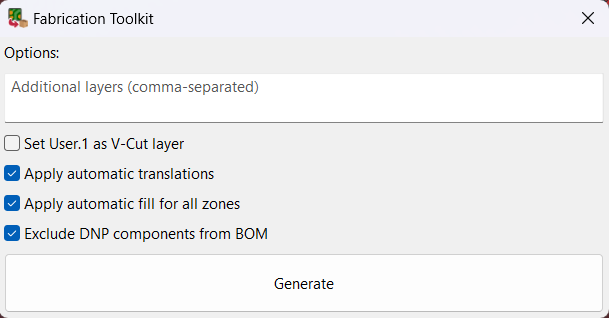
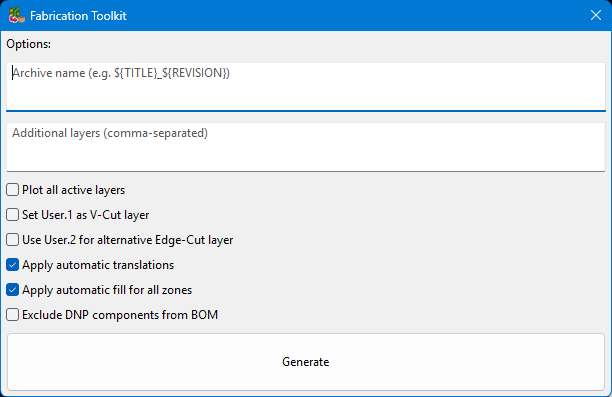
feat: add ability to customize archive name (#202)
* Add ability to customize archive name

* Remove incorrect autocomplete for ARCHIVE_NAME text box

---------

Changed region(s): [[0.0, 0.0, 1.0, 1.0], [0.4368, 0.8774, 0.5616, 0.934]]

diff --git a/plugins/plugin.py b/plugins/plugin.py
@@ -4,7 +4,7 @@ import pcbnew # type: ignore
 
 from .thread import ProcessThread
 from .events import StatusEvent
-from .options import AUTO_FILL_OPT, AUTO_TRANSLATE_OPT, EXCLUDE_DNP_OPT, EXTEND_EDGE_CUT_OPT, ALTERNATIVE_EDGE_CUT_OPT, EXTRA_LAYERS, ALL_ACTIVE_LAYERS_OPT
+from .options import AUTO_FILL_OPT, AUTO_TRANSLATE_OPT, EXCLUDE_DNP_OPT, EXTEND_EDGE_CUT_OPT, ALTERNATIVE_EDGE_CUT_OPT, EXTRA_LAYERS, ALL_ACTIVE_LAYERS_OPT, ARCHIVE_NAME
 from .utils import load_user_options, save_user_options, get_layer_names
 
 
@@ -30,6 +30,7 @@ class KiCadToJLCForm(wx.Frame):
         userOptions = load_user_options({
             EXTRA_LAYERS: "",
             ALL_ACTIVE_LAYERS_OPT: False,
+            ARCHIVE_NAME: "",
             EXTEND_EDGE_CUT_OPT: False,
             ALTERNATIVE_EDGE_CUT_OPT: False,
             AUTO_TRANSLATE_OPT: True,
@@ -46,6 +47,10 @@ class KiCadToJLCForm(wx.Frame):
         self.mAdditionalLayersControl.AutoComplete(layers)
         self.mAdditionalLayersControl.Enable()
         self.mAdditionalLayersControl.SetValue(userOptions[EXTRA_LAYERS])
+        self.mArchiveNameControl = wx.TextCtrl(self, size=wx.Size(600, 50))
+        self.mArchiveNameControl.Hint = "Archive name (e.g. ${TITLE}_${REVISION})"
+        self.mArchiveNameControl.Enable()
+        self.mArchiveNameControl.SetValue(userOptions[ARCHIVE_NAME])
         self.mAllActiveLayersCheckbox = wx.CheckBox(self, label='Plot all active layers')
         self.mAllActiveLayersCheckbox.SetValue(userOptions[ALL_ACTIVE_LAYERS_OPT])
         self.mExtendEdgeCutsCheckbox = wx.CheckBox(self, label='Set User.1 as V-Cut layer')
@@ -71,6 +76,7 @@ class KiCadToJLCForm(wx.Frame):
 
         boxSizer.Add(self.mOptionsLabel, 0, wx.ALL, 5)
         # boxSizer.Add(self.mOptionsSeparator, 0, wx.ALL, 5)
+        boxSizer.Add(self.mArchiveNameControl, 0, wx.ALL, 5)
         boxSizer.Add(self.mAdditionalLayersControl, 0, wx.ALL, 5)
         boxSizer.Add(self.mAllActiveLayersCheckbox, 0, wx.ALL, 5)
         boxSizer.Add(self.mExtendEdgeCutsCheckbox, 0, wx.ALL, 5)
@@ -100,6 +106,7 @@ class KiCadToJLCForm(wx.Frame):
 
     def onGenerateButtonClick(self, event):
         options = dict()
+        options[ARCHIVE_NAME] = self.mArchiveNameControl.GetValue()
         options[EXTRA_LAYERS] = self.mAdditionalLayersControl.GetValue()
         options[ALL_ACTIVE_LAYERS_OPT] = self.mAllActiveLayersCheckbox.GetValue()
         options[EXTEND_EDGE_CUT_OPT] = self.mExtendEdgeCutsCheckbox.GetValue()
@@ -111,6 +118,7 @@ class KiCadToJLCForm(wx.Frame):
         save_user_options(options)
 
         self.mOptionsLabel.Hide()
+        self.mArchiveNameControl.Hide()
         self.mAdditionalLayersControl.Hide()
         self.mAllActiveLayersCheckbox.Hide()
         self.mExtendEdgeCutsCheckbox.Hide()

diff --git a/plugins/thread.py b/plugins/thread.py
@@ -39,6 +39,36 @@ class ProcessThread(Thread):
         self.openBrowser = openBrowser
         self.start()
 
+    def expandTextVariables(self, string):
+        titleBlock = pcbnew.GetBoard().GetTitleBlock()
+        
+        titleBlockVars =        {
+            "ISSUE_DATE": titleBlock.GetDate(),
+            "CURRENT_DATE": datetime.datetime.now().strftime('%Y-%m-%d'),
+            "REVISION": titleBlock.GetRevision(),
+            "TITLE": titleBlock.GetTitle(),
+            "COMPANY": titleBlock.GetCompany(),
+            "COMMENT1": titleBlock.GetComment(0),
+            "COMMENT2": titleBlock.GetComment(1),
+            "COMMENT3": titleBlock.GetComment(2),
+            "COMMENT4": titleBlock.GetComment(3),
+            "COMMENT5": titleBlock.GetComment(4),
+            "COMMENT6": titleBlock.GetComment(5),
+            "COMMENT7": titleBlock.GetComment(6),
+            "COMMENT8": titleBlock.GetComment(7),
+            "COMMENT9": titleBlock.GetComment(8),
+        }
+
+        for var, val in titleBlockVars.items():
+            string = string.replace(f"${{{var}}}", val)
+
+        if (hasattr(self.process_manager.board, "GetProject") and hasattr(pcbnew, "ExpandTextVars")):
+            project = self.process_manager.board.GetProject()
+            string = pcbnew.ExpandTextVars(string, project)
+
+        return string
+
+
     def run(self):
         # initializing
         self.progress(0)
@@ -128,11 +158,16 @@ class ProcessThread(Thread):
             os.makedirs(output_path)
         
         # rename gerber archive
-        gerberArchiveName = ProcessManager.normalize_filename("_".join(("{} {}".format(title or filename, revision or '').strip() + '.zip').split()))
+        if self.options[ARCHIVE_NAME]:
+            baseName = self.expandTextVariables(self.options[ARCHIVE_NAME])
+        else:
+            baseName = "{} {}".format(title or filename, revision or '')
+
+        gerberArchiveName = ProcessManager.normalize_filename("_".join((baseName.strip() + '.zip').split()))
         os.rename(temp_file, os.path.join(temp_dir, gerberArchiveName))
 
         timestamp = datetime.datetime.now().strftime('%Y-%m-%d %H-%M-%S')
-        backup_name = ProcessManager.normalize_filename("_".join(("{} {} {}".format(title or filename, revision or '', timestamp).strip()).split()))
+        backup_name = ProcessManager.normalize_filename("_".join(("{} {}".format(baseName, timestamp).strip()).split()))
         shutil.make_archive(os.path.join(output_path, 'backups', backup_name), 'zip', temp_dir)
 
 

diff --git a/plugins/cli.py b/plugins/cli.py
@@ -9,13 +9,14 @@ if __name__ == '__main__':
                             description="Generates JLCPCB production files from a KiCAD board file")
 
     parser.add_argument("--path",               "-p",  type=str, help="Path to KiCAD board file", required=True)
-    parser.add_argument("--additionalLayers",   "-aL", type=str, help="Additional layers(comma-separated)")
+    parser.add_argument("--additionalLayers",   "-aL", type=str, help="Additional layers(comma-separated)", metavar="LAYERS")
     parser.add_argument("--user1VCut",          "-u1", action="store_true", help="Set User.1 as V-Cut layer")
     parser.add_argument("--user2AltVCut",       "-u2", action="store_true", help="Use User.2 for alternative Edge-Cut layer")
     parser.add_argument("--autoTranslate",      "-t",  action="store_true", help="Apply automatic position/rotation translations")
     parser.add_argument("--autoFill",           "-f",  action="store_true", help="Apply automatic fill for all zones")
     parser.add_argument("--excludeDNP",         "-e",  action="store_true", help="Exclude DNP components from BOM")
     parser.add_argument("--allActiveLayers",    "-aaL",action="store_true", help="Export all active layers instead of only commonly used ones")
+    parser.add_argument("--archiveName",           "-aN", type=str, help="Name of the generated archives", metavar="NAME")
     parser.add_argument("--openBrowser",        "-b",  action="store_true", help="Open webbrowser with directory file overview after generation")
     args = parser.parse_args()
 
@@ -26,6 +27,7 @@ if __name__ == '__main__':
     options[EXTEND_EDGE_CUT_OPT] = args.user1VCut
     options[ALTERNATIVE_EDGE_CUT_OPT] = args.user2AltVCut
     options[ALL_ACTIVE_LAYERS_OPT] = args.allActiveLayers
+    options[ARCHIVE_NAME] = args.archiveName
     options[EXTRA_LAYERS] = args.additionalLayers
 
     openBrowser = args.openBrowser

diff --git a/plugins/options.py b/plugins/options.py
@@ -5,4 +5,5 @@ OUTPUT_NAME_OPT = "OUTPUT NAME"
 EXTEND_EDGE_CUT_OPT = "EXTEND_EDGE_CUT"
 ALTERNATIVE_EDGE_CUT_OPT = "ALTERNATIVE_EDGE_CUT"
 ALL_ACTIVE_LAYERS_OPT = "ALL_ACTIVE_LAYERS"
+ARCHIVE_NAME = "ARCHIVE_NAME"
 EXTRA_LAYERS = "EXTRA_LAYERS"

diff --git a/README.md b/README.md
@@ -39,7 +39,9 @@ Options can be set in the dialog that appears when the plugin is invoked. They a
 
 <img src="https://github.com/bennymeg/JLC-Plugin-for-KiCad/blob/master/assets/options.png?raw=true" height=275>
 
+☑ __Archive name__: Name of the archive file to be generated. Can include text variables, such as e.g. `${TITLE}_${REVISION}`</br>
 ☑ __Additional layers__: Comma-separated list of additional layers to include in the gerber archive.</br>
+☑ __Plot all active layers__: Whether to include all layers, instead of just the layers required by JLCPCB.</br>
 ☑ __Set User.1 as V-Cut layer__: Merge User.1 layer with the Edge-Cut layer in production.</br>
 ☑ __Use User.2 for an alternative Edge-Cut layer__: Use the User.2 instead of the Edge-Cut layer for the board outline in production. This is useful if you need process edges or panelization during production but still want to keep the individual outline for prototyping, 3D model exports, or similar purposes.</br>
 ☑ __Apply automatic translations__: Apply known translation fixes for common components.</br>
@@ -178,25 +180,31 @@ The plugin can be called with the command below:
 python3 -m plugins.cli -p /myProject/myBoard.kicad_pcb
 ```
 
-The all options from the GUI are also available via the cli interface:
+All the options from the GUI are also available via the cli interface:
 ```
 python3 -m plugins.cli -h
 
-usage: Fabrication Toolkit [-h] --path PATH [--additionalLayers LAYERS] [--user1VCut] [--user2AltVCut] [--autoTranslate] [--autoFill] [--excludeDNP] [--allActiveLayers] [--openBrowser]
+usage: Fabrication Toolkit [-h] --path PATH [--additionalLayers LAYERS] [--user1VCut] [--user2AltVCut]
+                           [--autoTranslate] [--autoFill] [--excludeDNP] [--allActiveLayers] [--archiveName NAME]
+                           [--openBrowser]
 
 Generates JLCPCB production files from a KiCAD board file
 
 options:
-  -h, --help                                show this help message and exit
-  --path PATH, -p PATH                      Path to KiCAD board file
-  --additionalLayers LAYERS, -aL LAYERS     Additional layers(comma-separated)
-  --user1VCut, -u1                          Set User.1 as V-Cut layer
-  --user2AltVCut, -u2                       Use User.2 for alternative Edge-Cut layer
-  --autoTranslate, -t                       Apply automatic position/rotation translations
-  --autoFill, -f                            Apply automatic fill for all zones
-  --excludeDNP, -e                          Exclude DNP components from BOM
-  --allActiveLayers, -aaL                   Export all active layers instead of only commonly used ones
-  --openBrowser, -b                         Open web browser with directory file overview after generation
+  -h, --help            show this help message and exit
+  --path PATH, -p PATH  Path to KiCAD board file
+  --additionalLayers LAYERS, -aL LAYERS
+                        Additional layers(comma-separated)
+  --user1VCut, -u1      Set User.1 as V-Cut layer
+  --user2AltVCut, -u2   Use User.2 for alternative Edge-Cut layer
+  --autoTranslate, -t   Apply automatic position/rotation translations
+  --autoFill, -f        Apply automatic fill for all zones
+  --excludeDNP, -e      Exclude DNP components from BOM
+  --allActiveLayers, -aaL
+                        Export all active layers instead of only commonly used ones
+  --archiveName NAME, -aN NAME
+                        Name of the generated archives
+  --openBrowser, -b     Open webbrowser with directory file overview after generation
 ```
 
 
